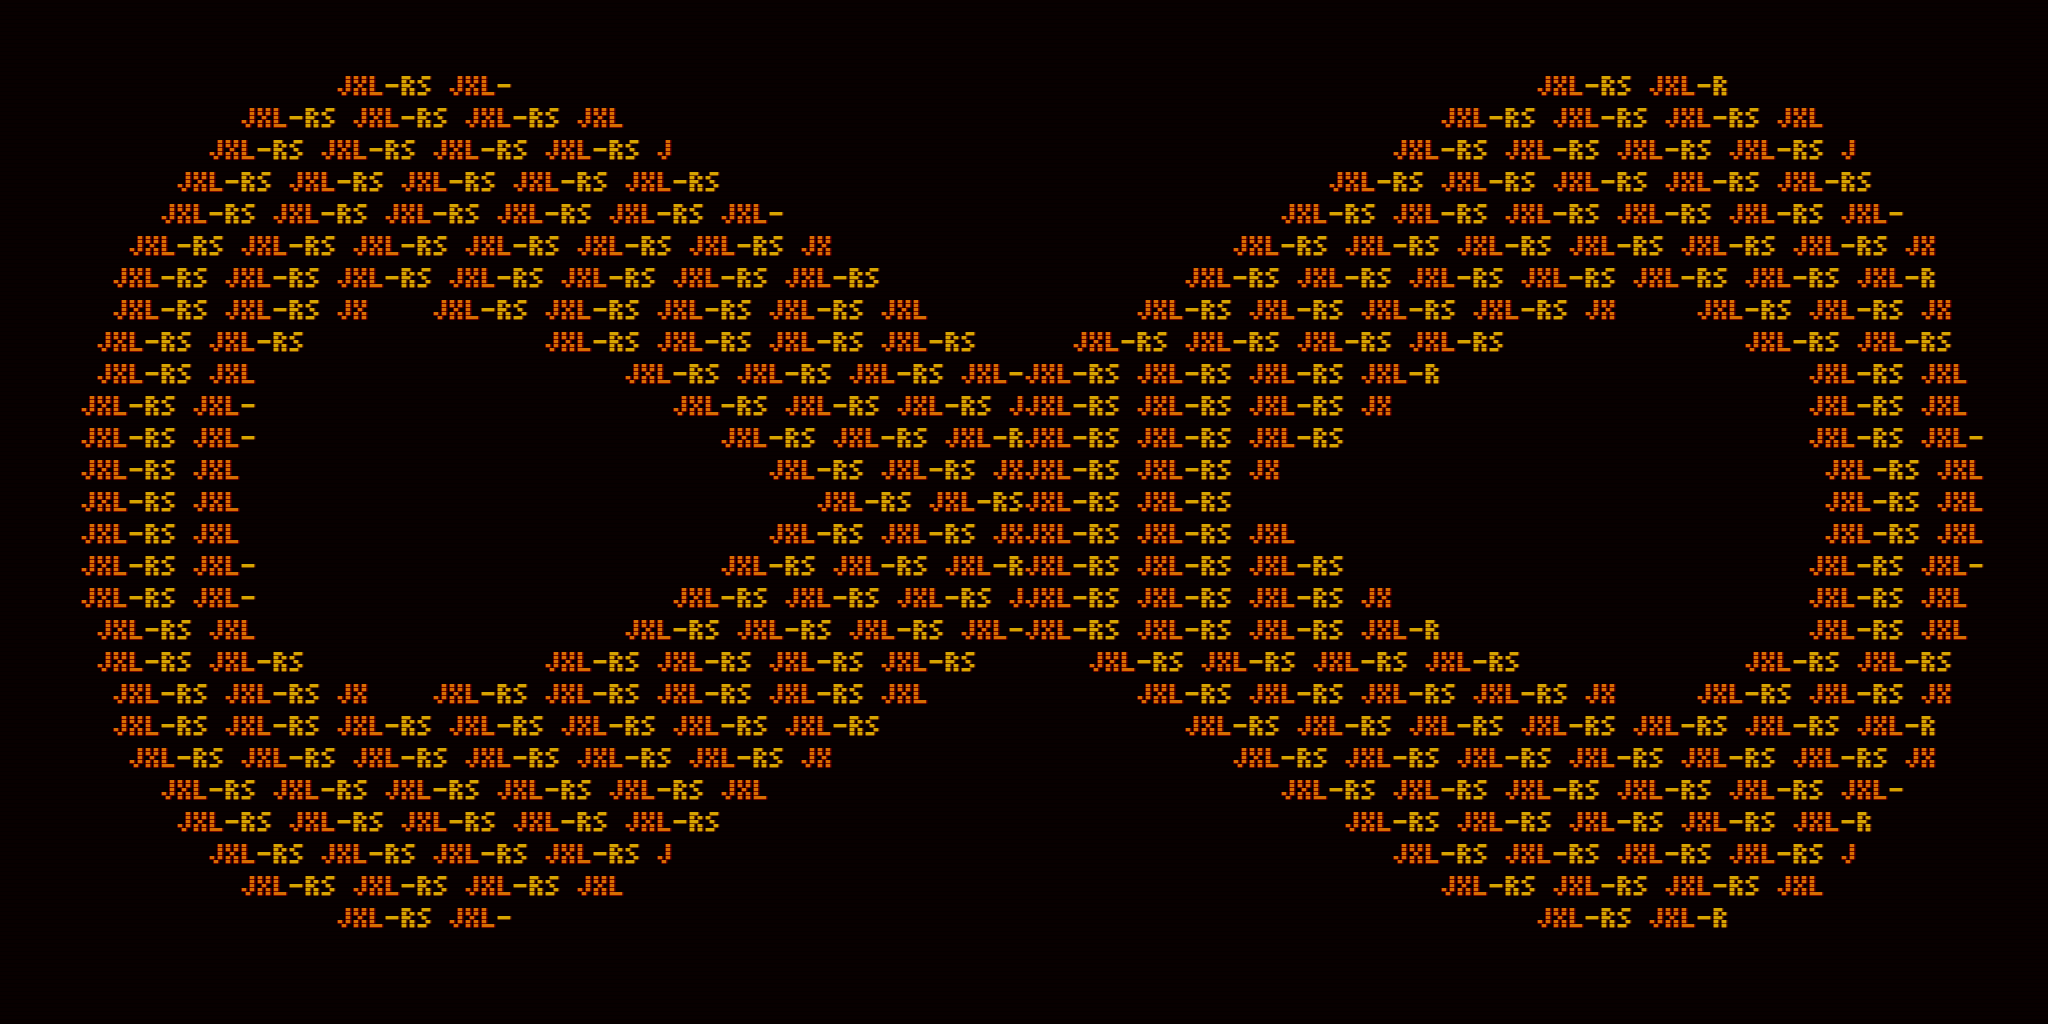
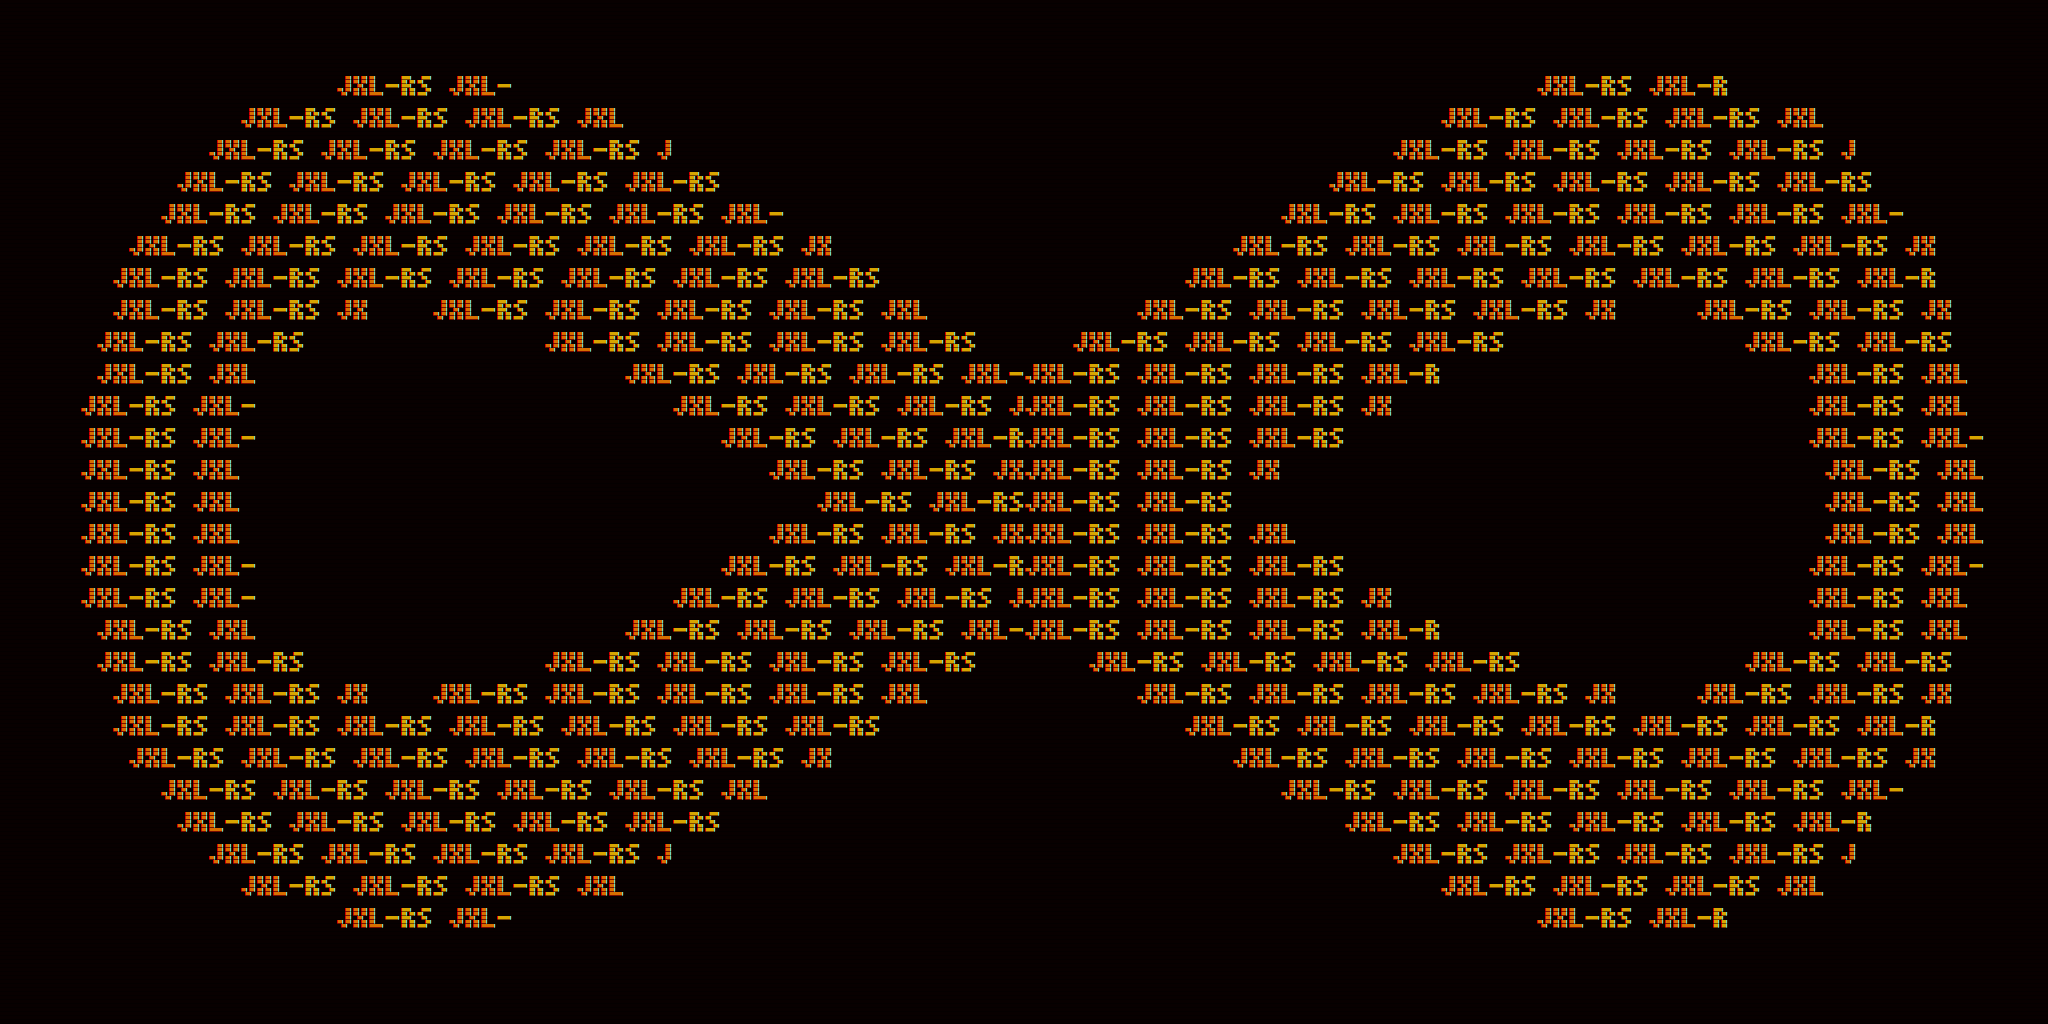
[C] jxl_rs_crt: 1 px chromatic aberration (rim class 4, per-class G/B deltas), 485 B

diff --git a/art/gen_text_tree.py b/art/gen_text_tree.py
@@ -80,6 +80,12 @@ LOGO_TEXT = "JXL-RS "                  # jxl_rs: every run of drawn cells spells
 LOGO_TONE_SPLIT = 3                    # jxl_rs: counter values 1..3 (JXL) in RUST_ORANGE, the rest in RUST_TAN
 RUST_ORANGE, RUST_TAN = (247, 76, 0), (222, 165, 132)   # Ferris orange; GitHub's Rust language colour
 CRT_AMBER_G = (-105, -50)              # jxl_rs_crt: G = R + delta for JXL (orange) and -RS (amber) phosphor; B = 0
+# Chromatic aberration (jxl_rs_crt): red extends one pixel left (full on the rim class), green and
+# blue one pixel right (full on the first trail pixel): red fringe on the left edge of every stroke,
+# cyan-green on the right. Glow classes 0..4 = background, trail 2, trail 1, lit, rim.
+ABERRATION_RIM = 4                     # rim gets its own class (the plain CRT text uses 2, same as trail 1)
+ABERRATION_G = (-8, -30, 95, None, -255)      # G = R + delta by class; None = the lit word tones (CRT_AMBER_G)
+ABERRATION_B = (-255, -255, 60, -255, -255)   # B = R + delta by class: only the right fringe gets blue
 OPTIMIZER_RESTARTS = 40
 
 # ---------------------------------------------------------------- tree DSL (pure functions)
@@ -730,10 +736,11 @@ def scanline_counter():
     return If("y", 0, If("N", CRT["scan"] - 2, Set(0), Leaf("N", 1)), Set(0))
 
 
-def class_channel(prev_pattern, prev_cc):
+def class_channel(prev_pattern, prev_cc, rim=2):
     """
-    Pure function. Glow class C: 3 on lit glyph pixels, W - 1 elsewhere (fading trail), 2 on the
-    pixel before a lit glyph column. Relies on pattern_channel computing the pattern one pixel
+    Pure function. Glow class C: 3 on lit glyph pixels, W - 1 elsewhere (fading trail), `rim` on
+    the pixel before a lit glyph column (2 by default, i.e. the same glow as the first trail
+    pixel; ABERRATION_RIM keeps it apart). Relies on pattern_channel computing the pattern one pixel
     before the glyph and peeling a bit on the LAST pixel of each column (crt=True layout), so on
     that pixel "lit" is W > 2 and the pattern's top bit already belongs to the next column.
 
@@ -742,7 +749,7 @@ def class_channel(prev_pattern, prev_cc):
         'if Prev2 > 447'
     """
     trail = If("W", 0, Leaf("W", -1), Set(0))
-    lit, rim = Set(3), Set(2)
+    lit, rim = Set(3), Set(rim)
     x0 = GLYPH_X0
     bit = [3, 1, 0]                       # "top bit set" threshold after 0, 1, 2 peels
     cases = [(cc_xm_gt(x0 + 3 * PIXEL - 1), trail)]
@@ -755,17 +762,34 @@ def class_channel(prev_pattern, prev_cc):
     return chain(prev_cc, cases, trail)
 
 
-def brightness_channel(prev_class, prev_scan):
+def brightness_channel(prev_class, prev_scan, levels=CRT["levels"]):
     """
-    Pure function. R channel of the CRT look: brightness by glow class, dimmed on dark scanlines.
+    Pure function. R channel of the CRT look: brightness by glow class (`levels[class]`), dimmed
+    on dark scanlines.
 
     Examples:
         >>> render(brightness_channel("Prev", "Prev2")).splitlines()[0]
         'if Prev > 2'
     """
-    levels = CRT["levels"]
     per_class = [If(prev_scan, 0, Set(v), Set(round(v * CRT["dark"]))) for v in levels]
     return chain(prev_class, [(k - 1, per_class[k]) for k in range(len(levels) - 1, 0, -1)], per_class[0])
+
+
+def delta_by_class(prev_class, deltas, lit):
+    """
+    Pure function. RCT delta channel (G or B = R + delta) chosen by glow class; the None entry
+    of `deltas` is the lit class and takes the `lit` subtree.
+
+    Examples:
+        >>> print(render(delta_by_class("Prev", (-8, None, 95), Set(-105))))
+        if Prev > 1
+          - Set 95
+          if Prev > 0
+            - Set -105
+            - Set -8
+    """
+    leaf = lambda k: lit if deltas[k] is None else Set(deltas[k])
+    return chain(prev_class, [(k - 1, leaf(k)) for k in range(len(deltas) - 1, 0, -1)], leaf(0))
 
 
 # ---------------------------------------------------------------- random equations (a CFG)
@@ -1153,10 +1177,17 @@ def build_piece(charset, mask, canvas, crt=False, text=None, name=None):
         trees["G"], trees["B"] = tone("G", 1), tone("B", 2)   # RCT 3 adds R; unlit pixels (R = 0) clamp to black
     elif crt:
         trees["sl"] = scanline_counter()
-        trees["C"] = class_channel(prev("C", "P"), prev("C", "cc"))
-        trees["R"] = brightness_channel(prev("R", "C"), prev("R", "sl"))
-        trees["G"] = If(prev("G", "V"), LOGO_TONE_SPLIT, Set(CRT_AMBER_G[1]), Set(CRT_AMBER_G[0])) if text else Set(CRT["phosphor_g"])
-        trees["B"] = Set(-WHITE)             # RCT 3: G = R + delta, B = 0
+        if not text:
+            trees["C"] = class_channel(prev("C", "P"), prev("C", "cc"))
+        if text:                         # amber tube with chromatic aberration (see ABERRATION_*)
+            trees["C"] = class_channel(prev("C", "P"), prev("C", "cc"), rim=ABERRATION_RIM)
+            trees["R"] = brightness_channel(prev("R", "C"), prev("R", "sl"), CRT["levels"] + (CRT["levels"][-1],))
+            word = If(prev("G", "V"), LOGO_TONE_SPLIT, Set(CRT_AMBER_G[1]), Set(CRT_AMBER_G[0]))
+            trees["G"] = delta_by_class(prev("G", "C"), ABERRATION_G, word)
+            trees["B"] = delta_by_class(prev("B", "C"), ABERRATION_B, Set(-WHITE))
+        else:
+            trees["R"] = brightness_channel(prev("R", "C"), prev("R", "sl"))
+            trees["G"], trees["B"] = Set(CRT["phosphor_g"]), Set(-WHITE)   # RCT 3: G = R + 25, B = 0
     else:
         trees["R"] = colour_channel(prev("R", "P"), prev("R", "cc"))
         trees["G"] = trees["B"] = Set(0)      # RCT 3 adds R to these channels: grey = white/black
@@ -1173,7 +1204,7 @@ def build_piece(charset, mask, canvas, crt=False, text=None, name=None):
      (negative = blank cell); P glyph-row pattern (bit 2 = left pixel), shifted per glyph column; R glyph
      pixels; G and B are {"per-tone" if text else "0"} deltas (RCT 3 adds R).
      {f"S mask field ({mask}) and L crossing field: a cell is drawn when |L| <= w near the centre or |S| <= half-width elsewhere." if mask else ""}
-     {f"sl scanline counter; C glow class (3 lit, trail 2, 1); R brightness by class and scanline, G = R {f'{CRT_AMBER_G[0]} (JXL) / {CRT_AMBER_G[1]} (-RS)' if text else '+ 25'}, B = 0." if crt else ""}
+     {f"sl scanline counter; C glow class (3 lit, trail 2, 1); R brightness by class and scanline, G = R {f'{CRT_AMBER_G[0]} (JXL) / {CRT_AMBER_G[1]} (-RS); rim class {ABERRATION_RIM} and per-class G/B deltas = 1 px chromatic aberration' if text else '+ 25'}{'' if text else ', B = 0'}." if crt else ""}
    Nodes: {count_nodes(tree)} */
 Width {canvas[0]}
 Height {canvas[1]}

diff --git a/claude_instructions.md b/claude_instructions.md
@@ -144,6 +144,8 @@ looking at the decoded PNG (the "VLM check"), no agents for the first pass.
 > "Very nice, I do miss the scanlines
 > An old terminal orange scanline pattern would go hard"
 
+> "add a lil chromatic abberatin plz"
+
 Claude's reading: "ASCII texts ... randomly" = a grid of pseudo-random ASCII characters (letters and/or
 digits) rendered as pixel glyphs, analogous to the 1/0 grid. "WOM problems" = write-only-memory:
 installs that leave no trace in the dump. Top level therefore holds `setup.sh` next to the manifest.
@@ -302,7 +304,7 @@ Same text and mask as v1 plus two hidden channels and a colour rule (all in art/
   (user: "not smooth and seems to have added a lot of bytes"; it cost ~130 B). Smooth vignettes
   are not available: brightness can only take a few discrete leaf values per region.
 
-### jxl_rs — jxl_rs.tree (394 B), jxl_rs_crt.tree (459 B)
+### jxl_rs — jxl_rs.tree (394 B), jxl_rs_crt.tree (485 B)
 Generate with `--mask lemniscate --logo` and `--mask lemniscate --logo --crt`. The infinity of text_infinity, but every run of drawn
 cells (a row's stretch inside the mask, starting at its left edge) spells `LOGO_TEXT` = "JXL-RS "
 instead of random glyphs, in Rust colours: "JXL" in Ferris orange (247, 76, 0), "-RS" in the tan
@@ -321,6 +323,13 @@ seamless at 64 cells) would stop runs from starting with "J", so the seam was ke
 text_infinity_v2 (every 4th row at 0.55, phosphor trail classes with levels 8/60/120/215, glow rim) as an
 amber phosphor: B = 0 everywhere, G = R + CRT_AMBER_G by word (-105 for JXL: orange, -50 for -RS:
 amber), so the dim trail and the raster glow fall toward dark red like a real amber tube.
+Chromatic aberration (user: "add a lil chromatic abberatin plz"): the rim (the pixel before a lit
+glyph column, known one pixel early from the pattern channel) is its own glow class ABERRATION_RIM = 4
+with full red brightness, so red extends one pixel to the left of every stroke; G and B take per-class
+deltas (ABERRATION_G / ABERRATION_B: lit keeps the word tones, the first trail pixel gets G = R + 95
+and B = R + 60, the rim gets none) so green and blue extend one pixel to the right. Result: a red
+fringe on the left edge and a cyan-green one on the right, one pixel wide (a quarter of a glyph
+pixel). text_infinity_v2 keeps rim class 2 and its bytes.
 
 ### equations — equations.tree (556 B), equations_crt.tree (625 B), equations_v2.tree (705 B), equations_v3.tree (652 B), equations_v4.tree (840 B)
 Generate with `--equations`, `--equations --crt`, `--equations --inline --gap 12 --row_gap 1 --random_length` (v2) and

diff --git a/concerns.md b/concerns.md
@@ -250,3 +250,9 @@
 ## 2026-09-04 11:30 — jxl_rs_crt
 - User: "Very nice, I do miss the scanlines / An old terminal orange scanline pattern would go hard".
   Reused the CRT channels (sl, C, brightness) with G = R - 105 / -50 by word and B = 0.
+
+## 2026-09-04 11:50 — chromatic aberration on jxl_rs_crt
+- User: "add a lil chromatic abberatin plz". A channel cannot read a neighbour of an earlier channel,
+  so a real shift is impossible; instead the glow class (which already encodes "pixel before lit"
+  and "pixels after lit") drives per-channel brightness: red full on the rim, green/blue full on the
+  first trail pixel. Rim became class 4 to tell it from the first trail pixel (both were 2).

diff --git a/.claude_todo.md b/.claude_todo.md
@@ -26,4 +26,5 @@ then "make it bigger and fit the aspect ratio ... more letters and not square", 
 - [x] equations v4 at 4096x2048 (per-group CA seeds)
 - [x] jxl_rs: infinity spelling JXL-RS in Rust colours (--mask lemniscate --logo)
 - [x] jxl_rs_crt: amber terminal scanline version (--mask lemniscate --logo --crt)
+- [x] jxl_rs_crt: chromatic aberration (rim class 4, per-class G/B deltas)
 - [ ] Ideas if wanted: golf digits; colour variants; a frenzy on further size ideas
